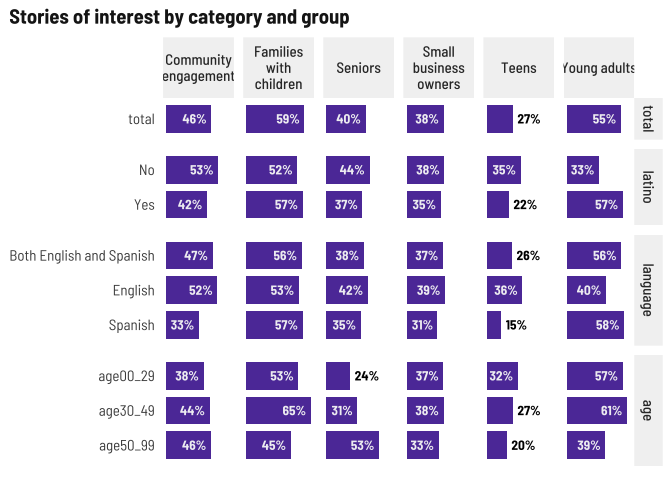
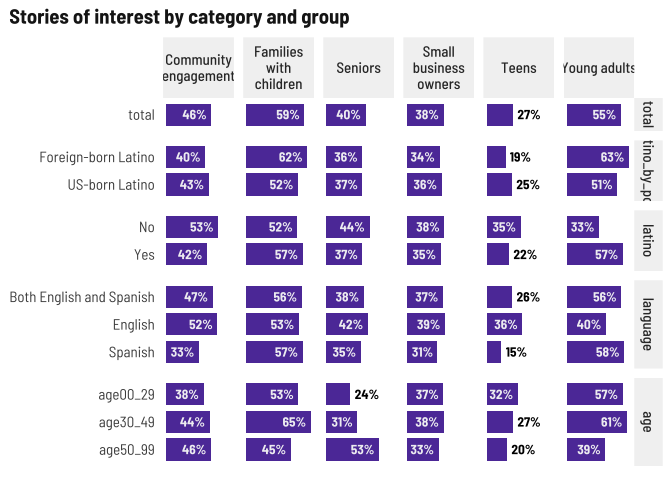
add disags for latino by place of birth

diff --git a/analysis/news_habits.md b/analysis/news_habits.md
@@ -23,6 +23,8 @@ are really it.
 
 ![](news_habits_files/figure-gfm/mode_place_of_birth-1.png)<!-- -->
 
+![](news_habits_files/figure-gfm/mode_pob_latino-1.png)<!-- -->
+
 ## Preferred language by age and ethnicity
 
 People under 50 have a slightly stronger overall preference for
@@ -35,6 +37,8 @@ people who identify as Latino strongly preferring Spanish and bilingual
 content.
 
 ![](news_habits_files/figure-gfm/pref_ethnicity-1.png)<!-- -->
+
+![](news_habits_files/figure-gfm/pref_latino_pob-1.png)<!-- -->
 
 ## News sources
 
@@ -51,3 +55,8 @@ Telemundo far and away the favored source for Latinos
 Facebook stands out among Spanish speakers
 
 ![](news_habits_files/figure-gfm/clouds_language-1.png)<!-- -->![](news_habits_files/figure-gfm/clouds_language-2.png)<!-- -->![](news_habits_files/figure-gfm/clouds_language-3.png)<!-- -->
+
+Foreign-born Latinos use Facebook more (more access to news sources from
+abroad?)
+
+![](news_habits_files/figure-gfm/clouds_latinopob-1.png)<!-- -->![](news_habits_files/figure-gfm/clouds_latinopob-2.png)<!-- -->

diff --git a/analysis/trust.md b/analysis/trust.md
@@ -23,6 +23,10 @@ generally distrust social media more.
 
 ![](trust_files/figure-gfm/lang_trust-1.png)<!-- -->
 
+Pretty similar between foreign-born and US-born Latinos.
+
+![](trust_files/figure-gfm/latinopob_trust-1.png)<!-- -->
+
 ## Beliefs
 
 Most older adults believe the news covers important topics and they
@@ -43,3 +47,7 @@ news reflects their beliefs. I wonder if this is influenced by the fact
 people are answering this survey for their local paper.
 
 ![](trust_files/figure-gfm/beliefs_lang-1.png)<!-- -->
+
+Again, pretty similar here.
+
+![](trust_files/figure-gfm/beliefs_latinopob-1.png)<!-- -->

diff --git a/analysis/news_habits_2.md b/analysis/news_habits_2.md
@@ -37,6 +37,11 @@ still, but Spanish-speakers also like to read about sports.
 
 ![](news_habits_2_files/figure-gfm/top_language-1.png)<!-- -->
 
+Same general trends with sports ranking a bit higher among foreign-born
+Latinos.
+
+![](news_habits_2_files/figure-gfm/top_latinopob-1.png)<!-- -->
+
 ## Special topics
 
 No surprises in the ages 30-49 group wanting stories about families with
